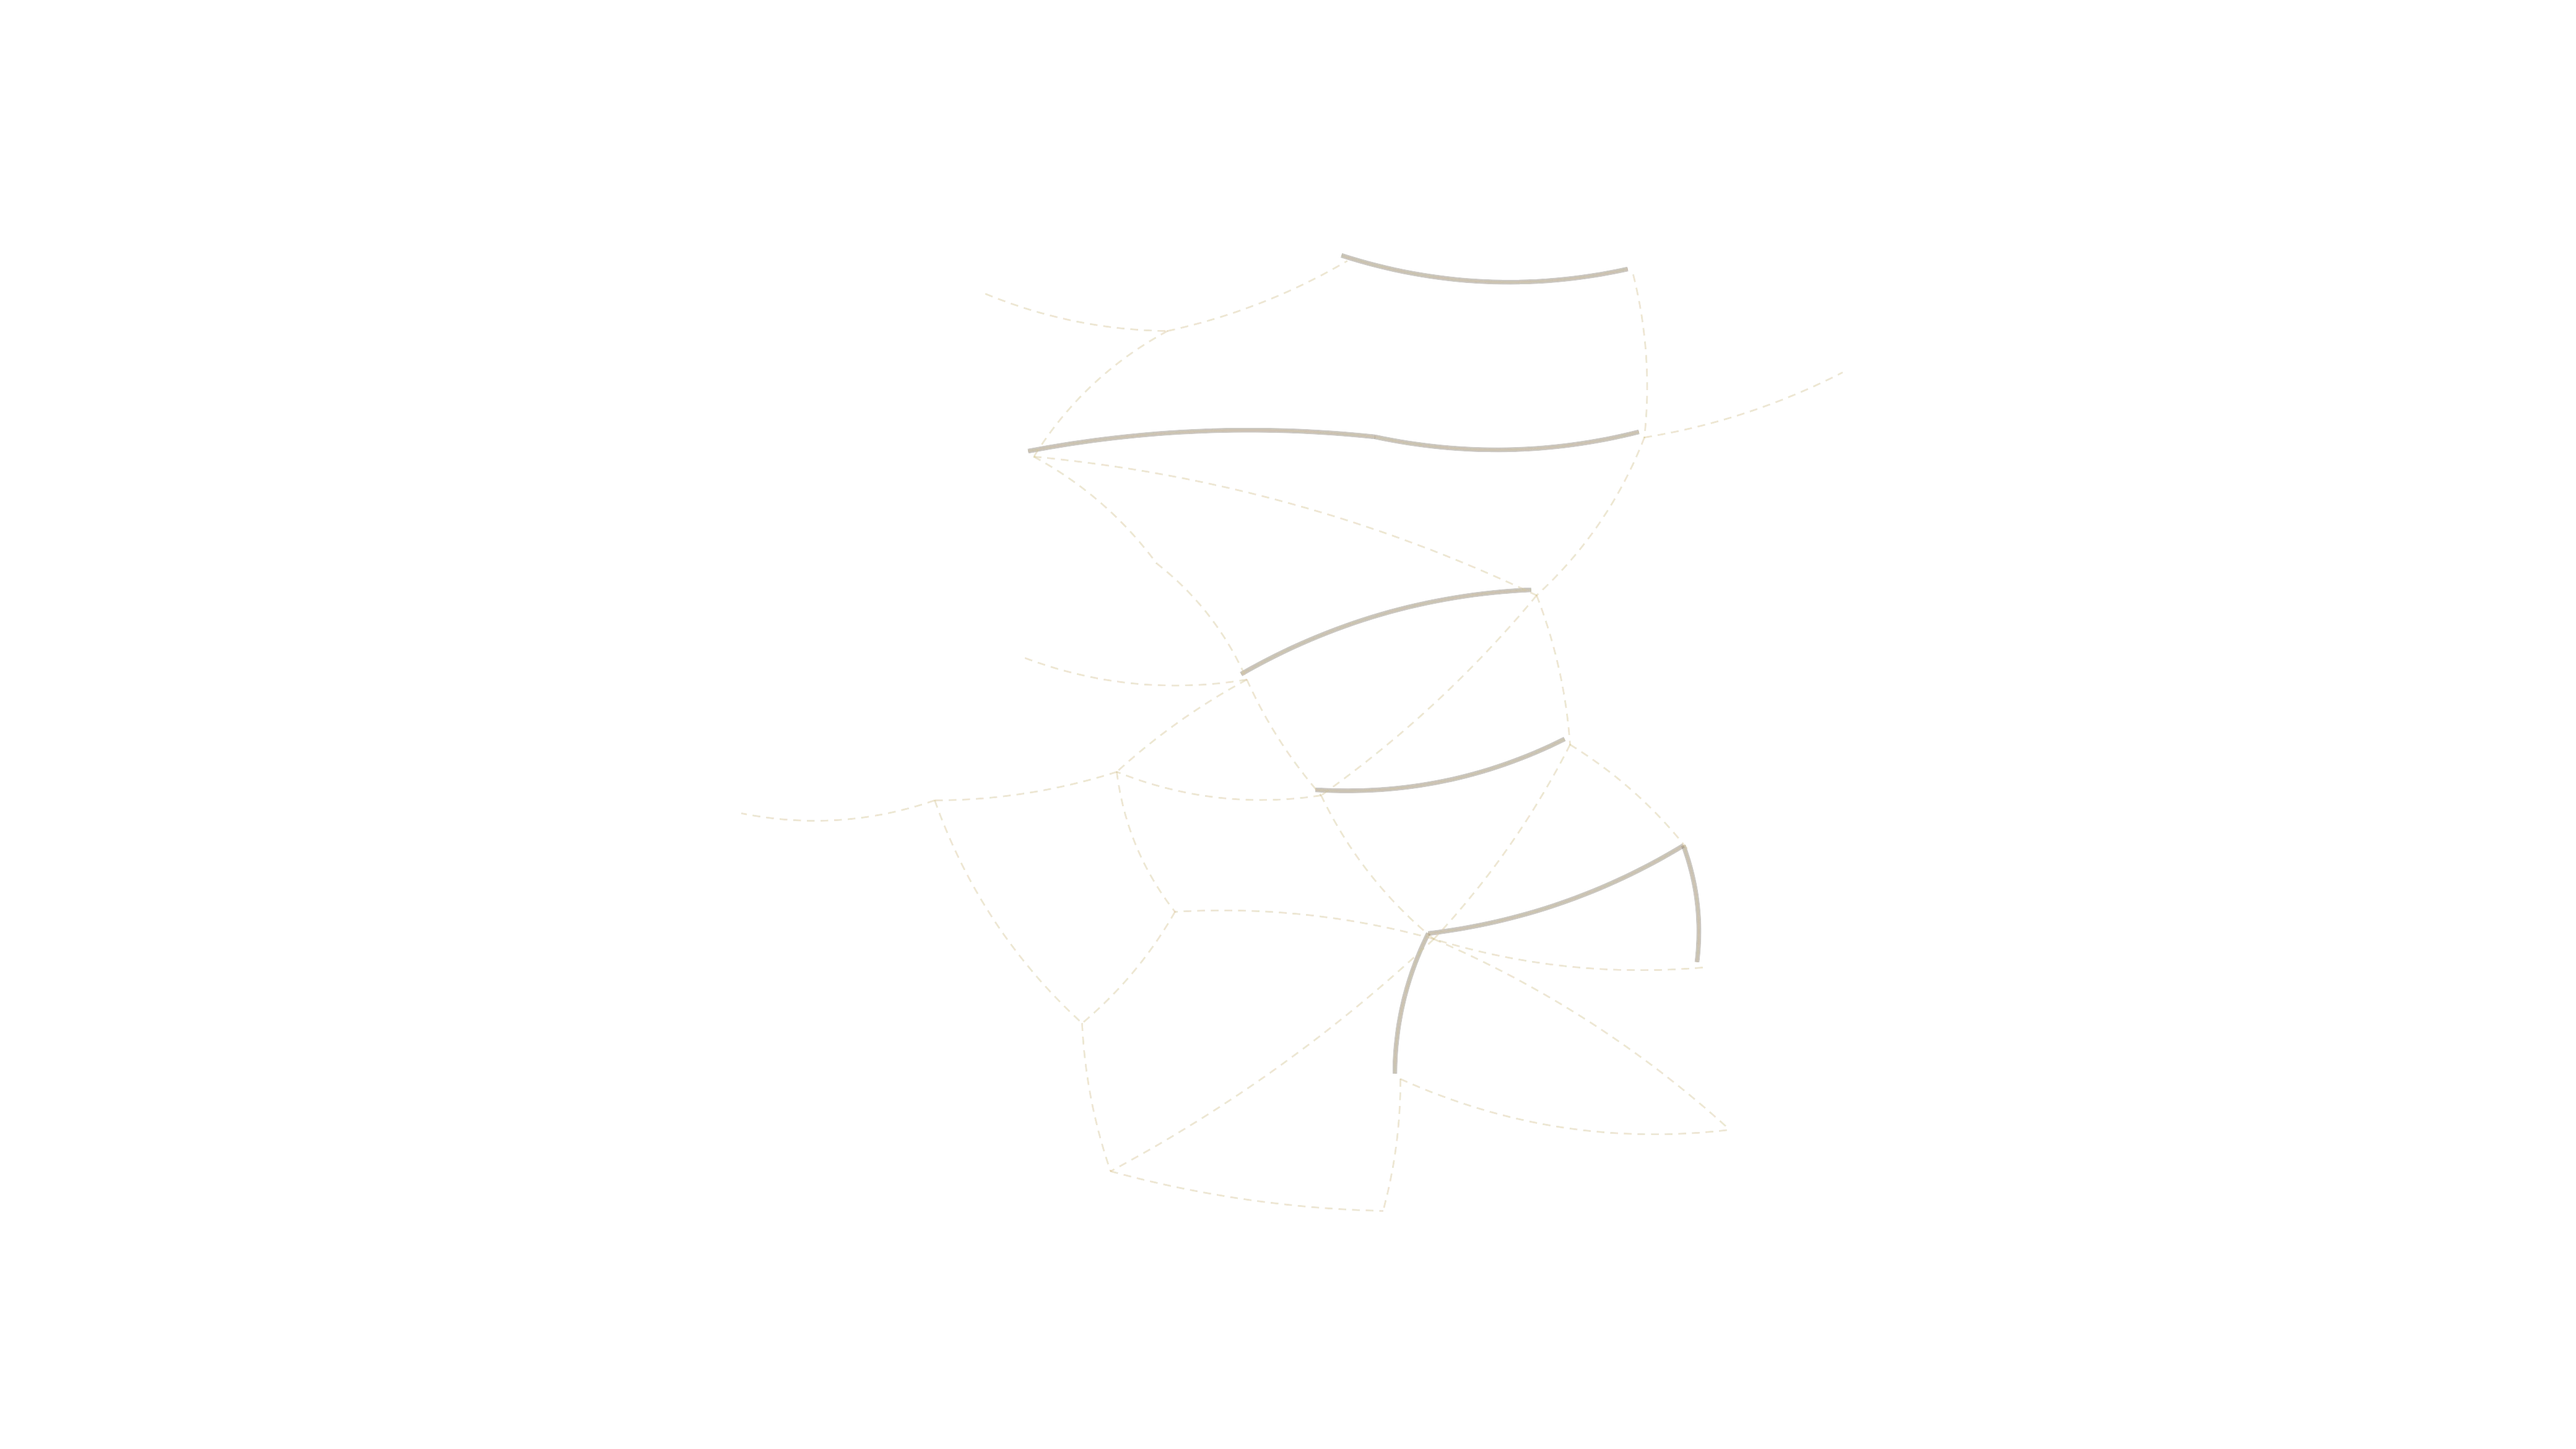
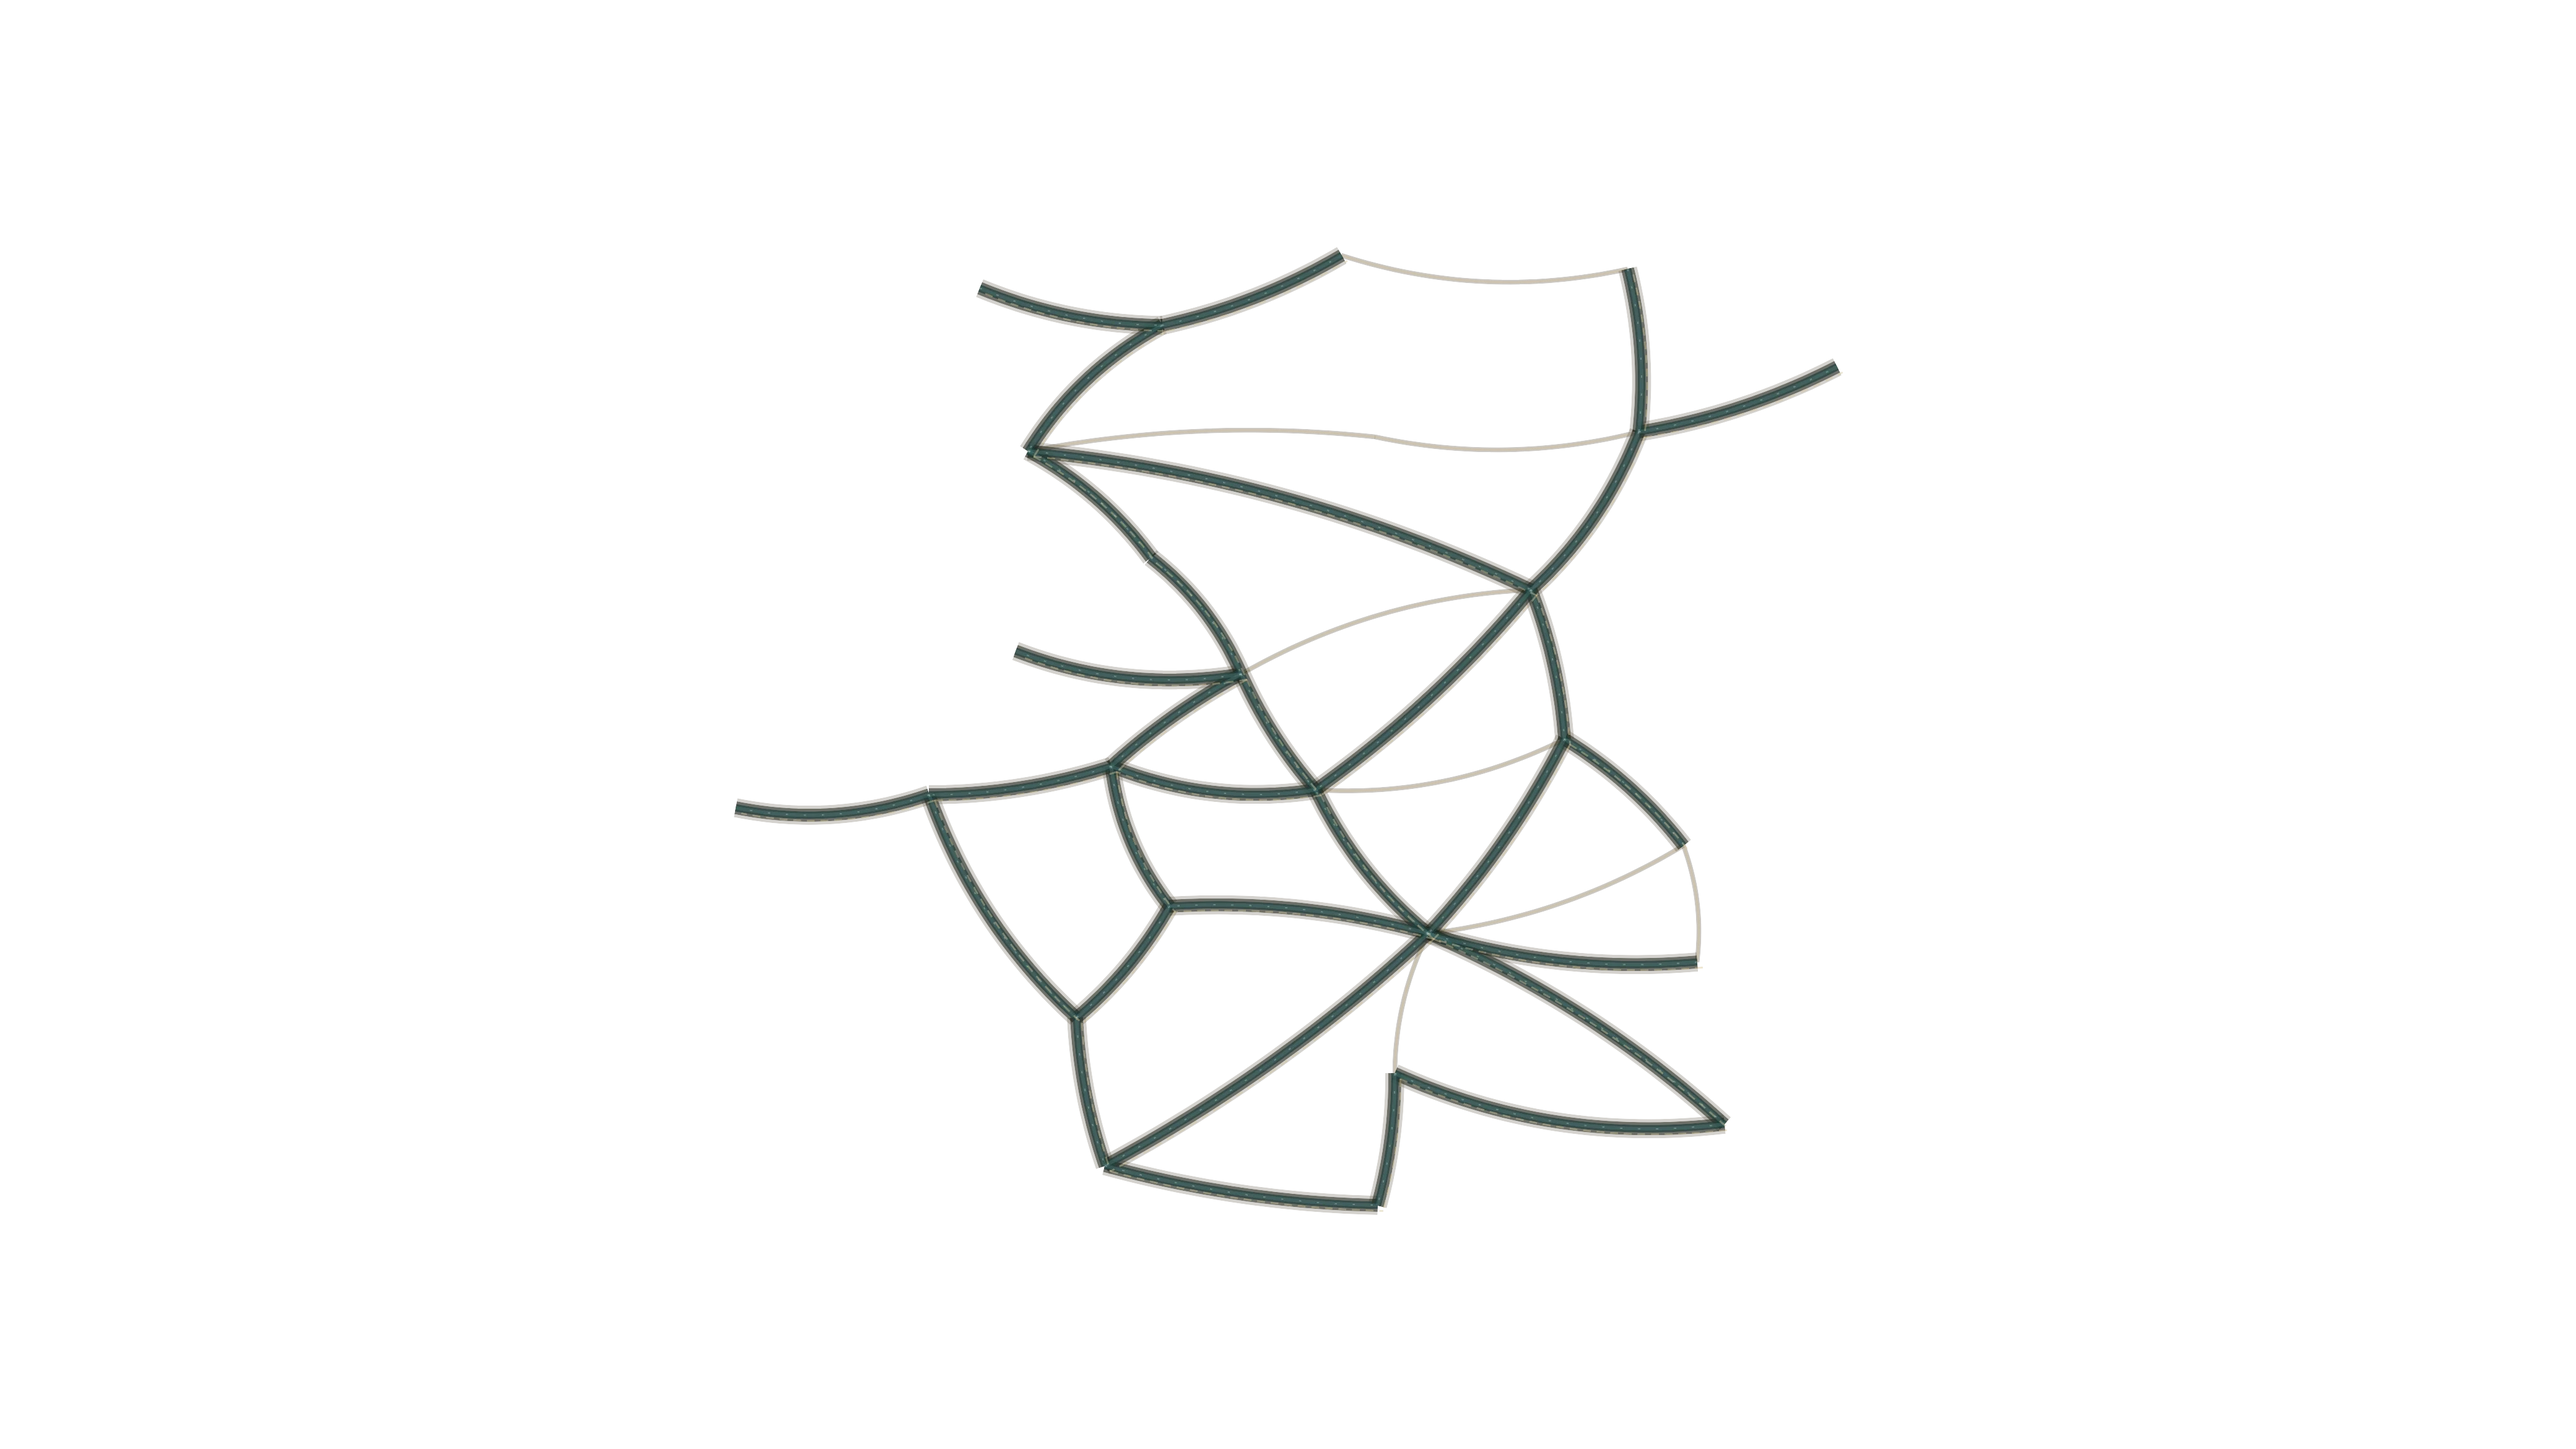
feat(board): key C leaves nothing of a route
The water stayed when the traces were hidden — the unbuilt ribbon dimmed,
the canal beds painted into the ground. Both go now: the beds move to the
survey layer with the towpaths and roads, and the ribbon hides outright,
so C shows the country and the built links alone.

diff --git a/app/src/gl/paint.ts b/app/src/gl/paint.ts
@@ -941,9 +941,6 @@ export function buildBoardScene(bgCanal: Sprite, bgRail: Sprite, etchCanal: Spri
 
   /* ---------------------------- repaints ----------------------------- */
   let hideUnbuilt = false;
-  /* the unbuilt links drawn as water, which hiding only dims */
-  const water = new Set<string>();
-  const WATER_DIM = 0.45;
   let bigChips = false;
   let greyFreeMerchants = false;
   let stockStyle: StockStyle = 'counter';
@@ -1088,12 +1085,9 @@ export function buildBoardScene(bgCanal: Sprite, bgRail: Sprite, etchCanal: Spri
           tracePath(g, pts);
           g.stroke({ width: 1.2, color: 0x8fb8c4, alpha: 0.5, cap: 'round', join: 'round' });
         }
-        /* board option (key C): unbuilt traces hidden. Water is geography,
-           not a trace: an unbuilt canal keeps its ribbon, only dimmed, so
-           the country does not lose its rivers when the surveys go */
-        if (railStyle) water.delete(def.id);
-        else water.add(def.id);
-        if (hideUnbuilt) g.alpha = railStyle ? 0 : WATER_DIM;
+        /* board option (key C): every unbuilt trace hidden, water included —
+           the relief ground serves its routes on a layer hidden with them */
+        if (hideUnbuilt) g.alpha = 0;
       } else {
         const col = playerHex(game, built.owner);
         const shape = PLAYER_COLORS[game.players[built.owner].color]?.shape ?? 'circle';
@@ -1498,8 +1492,8 @@ export function buildBoardScene(bgCanal: Sprite, bgRail: Sprite, etchCanal: Spri
     for (const def of LINKS) {
       const built = game.links[def.id];
       if (built) linkGfx.get(def.id)!.alpha = spotlight === null || built.owner === spotlight ? 1 : 0.3;
-      /* unbuilt traces soften under a spotlight too (unless hidden — water stays, dimmed) */
-      else linkGfx.get(def.id)!.alpha = hideUnbuilt ? (water.has(def.id) ? WATER_DIM : 0) : spotlight === null ? 1 : 0.45;
+      /* unbuilt traces soften under a spotlight too (unless fully hidden) */
+      else linkGfx.get(def.id)!.alpha = hideUnbuilt ? 0 : spotlight === null ? 1 : 0.45;
     }
     for (const town of TOWNS) {
       const view = towns.get(town.id)!;

diff --git a/tools/map/README.md b/tools/map/README.md
@@ -134,14 +134,14 @@ them can be composed again; only their served WebP went.
 ### The survey, on its own layer
 
 Key C hides the board's unbuilt traces; on the English model the ground
-itself carried a survey — cart roads and towpaths in the canal era, the
-railways in the rail era — and a hidden trace still left its pale line on
-the land. `ETCH=1` on `compose-canal.sh` and `compose-rail.sh` now serves
-that survey as a transparent layer of its own (`map-relief-*-etch.webp`)
-over a land bare of it; the board lays it over each era's ground
-(`etchCanal`/`etchRail` in `PixiBoard.tsx`, listed in `MAP_URL`) and
-hides it with the traces. The canal beds stay in the land: water is
-geography, and an unbuilt canal's ribbon only dims when the traces go.
+itself carried the routes — canal beds, towpaths and cart roads in the
+canal era, the railways in the rail era — and a hidden trace still left
+its line on the land. `ETCH=1` on `compose-canal.sh` and `compose-rail.sh`
+now serves those routes as a transparent layer of their own
+(`map-relief-*-etch.webp`) over a land bare of them; the board lays it
+over each era's ground (`etchCanal`/`etchRail` in `PixiBoard.tsx`, listed
+in `MAP_URL`) and hides it with the traces, so C leaves nothing of a
+route but the country.
 
 ## Anchoring a place
 
